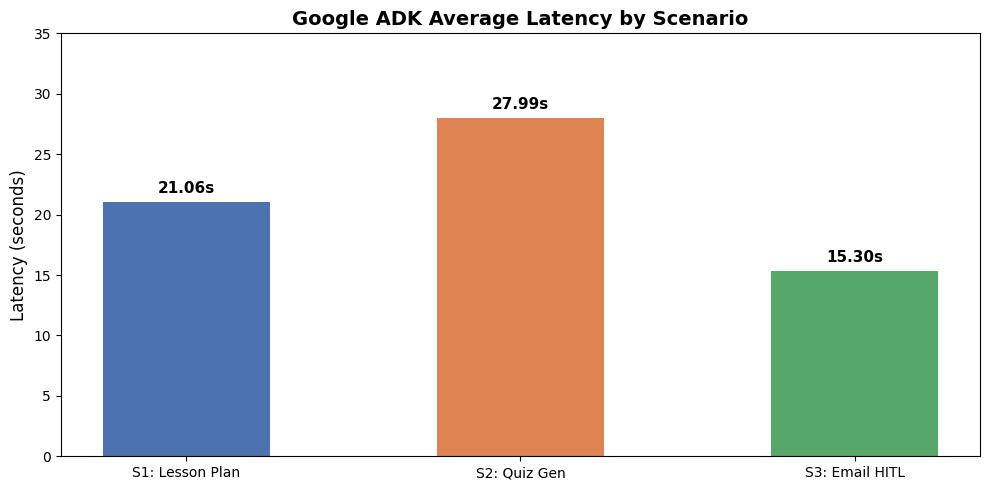
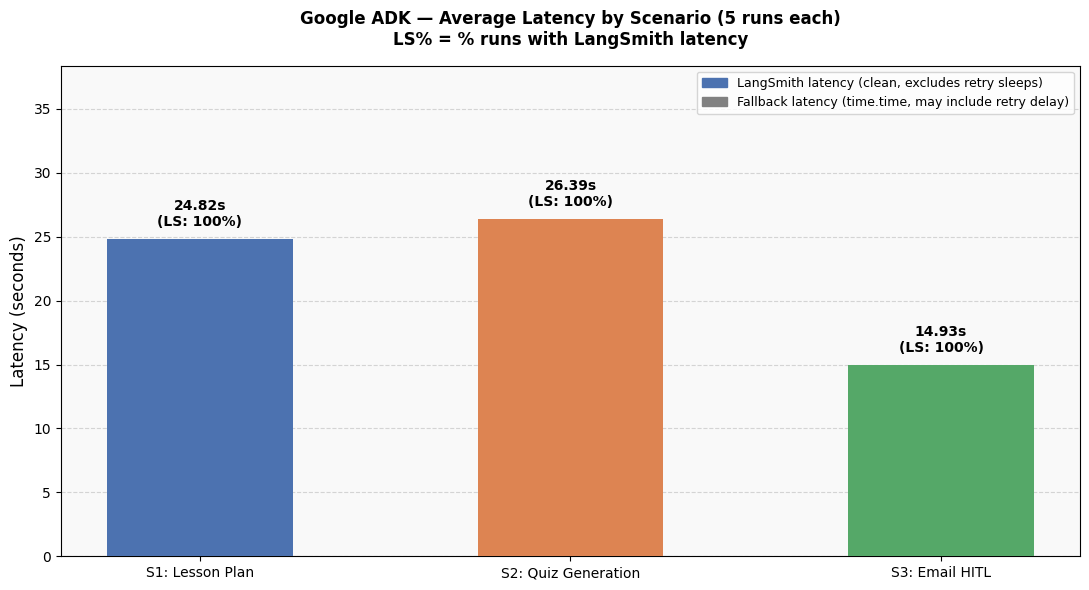
Changes Modified

diff --git a/README.md b/README.md
@@ -78,10 +78,10 @@ clean latency, no `time.time()` fallback measurements recorded in either noteboo
 
 | Scenario | LangGraph Avg | ADK Avg | Winner |
 |---|---|---|---|
-| Lesson Plan | 26.17s | 24.82s | ADK ✓ |
-| Quiz Generation | 25.50s | 26.39s | LangGraph ✓ |
-| Email HITL | 10.74s | 14.93s | LangGraph ✓ |
-| **Overall** | **20.80s** | **22.05s** | **LangGraph** ✓ |
+| Lesson Plan | 26.17s | 24.82s | ADK |
+| Quiz Generation | 25.50s | 26.39s | LangGraph |
+| Email HITL | 10.74s | 14.93s | LangGraph |
+| **Overall** | **20.80s** | **22.05s** | **LangGraph** |
 
 > All latency values are LangSmith end-to-end measurements. Scenario 3 includes
 > real human review + typing time for HITL decisions.
@@ -141,11 +141,9 @@ clean latency, no `time.time()` fallback measurements recorded in either noteboo
 | Dimension | LangGraph | Google ADK |
 |---|---|---|
 | Routing | Deterministic (keyword-first, LLM fallback) | Non-deterministic (AutoFlow) |
-| HITL flexibility | Approve / Reject / **Edit in-place** | Approve / Reject only (binary) |
 | State management | Explicit typed `TeacherState` shared across all nodes | `output_key` chaining between sequential agents |
 | Framework constraint | None observed | `output_schema` + `tools` conflict → 2-agent `SequentialAgent` workaround required |
 | Token tracking | Not available natively (`-1` sentinel) | Available via `usage_metadata` events |
-| Latency resilience | No retry logic | `HttpRetryOptions` (5 attempts, covers 429/5xx) |
 | Response verbosity | Higher (lesson plans significantly longer) | Lower/more concise |
 | Overall avg latency | **20.80s** | 22.05s |
 